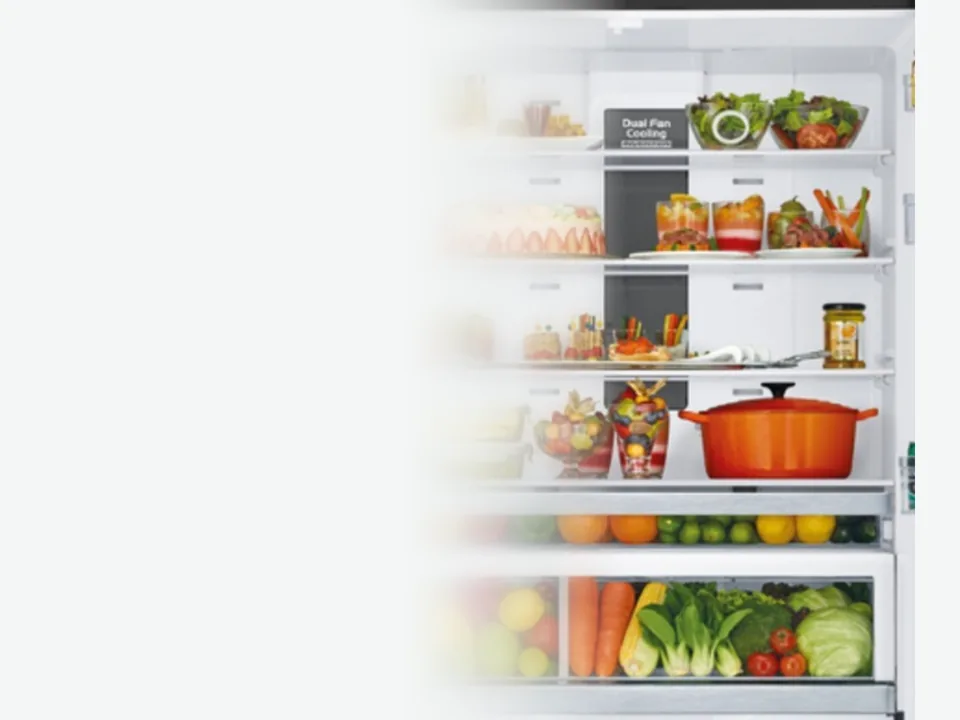
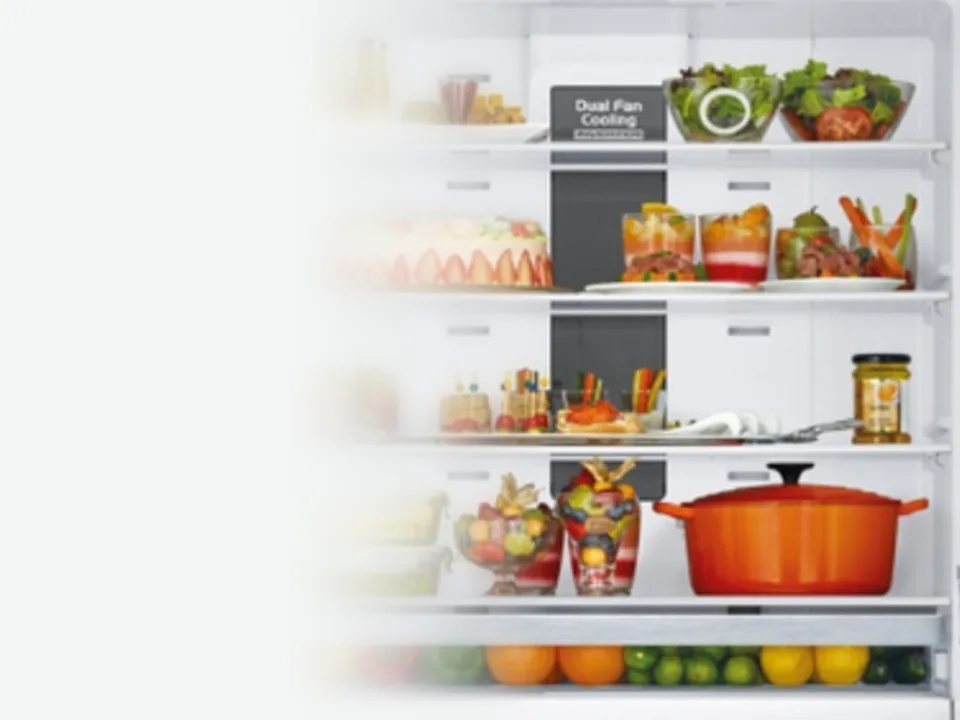
Home 'What to cook': closer fridge crop, larger photo area
Claude-Session: https://claude.ai/code/session_0114hPSsD2r6iCyAatioyGfp

diff --git a/th/index.html b/th/index.html
@@ -90,10 +90,10 @@
 -webkit-mask-image:linear-gradient(to left,#000 15%,rgba(0,0,0,.55) 45%,transparent 92%);mask-image:linear-gradient(to left,#000 15%,rgba(0,0,0,.55) 45%,transparent 92%);z-index:-1;pointer-events:none}
 .b-app.ph::after{opacity:.75;width:60%}.b-plan.ph::after{opacity:.35;width:45%}
 .b-app img.ph,.b-dish.ph .mos{display:none}.b-app .more{display:block;margin:12px 0 0}.b-app .txt{max-width:62%}
-.b-cook.ph::after{opacity:.75;width:55%}
+.b-cook.ph::after{opacity:.8;width:66%}
 @media(max-width:820px){.b-app .txt{max-width:100%}}
 @media(max-width:520px){.bt{min-height:180px}.b-calc,.b-food,.b-diet,.b-allg{min-height:160px}
-.bt.ph::after{width:68%;opacity:.42}.b-app.ph::after{opacity:.7;width:70%}.b-cook.ph::after{opacity:.6;width:62%}.b-cook form{flex-direction:column}}
+.bt.ph::after{width:68%;opacity:.42}.b-app.ph::after{opacity:.7;width:70%}.b-cook.ph::after{opacity:.6;width:75%}.b-cook form{flex-direction:column}}
 </style>
 <script type="application/ld+json">[{"@context": "https://schema.org", "@type": "WebSite", "name": "Me Nutrition", "url": "https://menutrition.app/", "inLanguage": "th", "description": "เครื่องมือโภชนาการฟรี: แคลอรี่และสารอาหารหลักของอาหาร 2,300+ เมนูและวัตถุดิบ 9,500+ รายการ ทำอะไรจากของในตู้เย็น ไดเอท ภูมิแพ้ เครื่องคำนวณ แผนลดน้ำหนัก"}, {"@context": "https://schema.org", "@type": "Organization", "name": "Me Nutrition", "url": "https://menutrition.app/", "logo": "https://menutrition.app/appicon.png", "sameAs": ["https://apps.apple.com/app/id6767123368"]}]</script>
 </head>

diff --git a/hi/index.html b/hi/index.html
@@ -90,10 +90,10 @@
 -webkit-mask-image:linear-gradient(to left,#000 15%,rgba(0,0,0,.55) 45%,transparent 92%);mask-image:linear-gradient(to left,#000 15%,rgba(0,0,0,.55) 45%,transparent 92%);z-index:-1;pointer-events:none}
 .b-app.ph::after{opacity:.75;width:60%}.b-plan.ph::after{opacity:.35;width:45%}
 .b-app img.ph,.b-dish.ph .mos{display:none}.b-app .more{display:block;margin:12px 0 0}.b-app .txt{max-width:62%}
-.b-cook.ph::after{opacity:.75;width:55%}
+.b-cook.ph::after{opacity:.8;width:66%}
 @media(max-width:820px){.b-app .txt{max-width:100%}}
 @media(max-width:520px){.bt{min-height:180px}.b-calc,.b-food,.b-diet,.b-allg{min-height:160px}
-.bt.ph::after{width:68%;opacity:.42}.b-app.ph::after{opacity:.7;width:70%}.b-cook.ph::after{opacity:.6;width:62%}.b-cook form{flex-direction:column}}
+.bt.ph::after{width:68%;opacity:.42}.b-app.ph::after{opacity:.7;width:70%}.b-cook.ph::after{opacity:.6;width:75%}.b-cook form{flex-direction:column}}
 </style>
 <script type="application/ld+json">[{"@context": "https://schema.org", "@type": "WebSite", "name": "Me Nutrition", "url": "https://menutrition.app/", "inLanguage": "hi", "description": "मुफ़्त पोषण टूल: 2,300+ व्यंजनों और 9,500+ खाद्य पदार्थों की कैलोरी व मैक्रो, फ्रिज से क्या बनाएं, डाइट, एलर्जी, कैलकुलेटर और वज़न घटाने का प्लान।"}, {"@context": "https://schema.org", "@type": "Organization", "name": "Me Nutrition", "url": "https://menutrition.app/", "logo": "https://menutrition.app/appicon.png", "sameAs": ["https://apps.apple.com/app/id6767123368"]}]</script>
 </head>

diff --git a/ru/index.html b/ru/index.html
@@ -90,10 +90,10 @@
 -webkit-mask-image:linear-gradient(to left,#000 15%,rgba(0,0,0,.55) 45%,transparent 92%);mask-image:linear-gradient(to left,#000 15%,rgba(0,0,0,.55) 45%,transparent 92%);z-index:-1;pointer-events:none}
 .b-app.ph::after{opacity:.75;width:60%}.b-plan.ph::after{opacity:.35;width:45%}
 .b-app img.ph,.b-dish.ph .mos{display:none}.b-app .more{display:block;margin:12px 0 0}.b-app .txt{max-width:62%}
-.b-cook.ph::after{opacity:.75;width:55%}
+.b-cook.ph::after{opacity:.8;width:66%}
 @media(max-width:820px){.b-app .txt{max-width:100%}}
 @media(max-width:520px){.bt{min-height:180px}.b-calc,.b-food,.b-diet,.b-allg{min-height:160px}
-.bt.ph::after{width:68%;opacity:.42}.b-app.ph::after{opacity:.7;width:70%}.b-cook.ph::after{opacity:.6;width:62%}.b-cook form{flex-direction:column}}
+.bt.ph::after{width:68%;opacity:.42}.b-app.ph::after{opacity:.7;width:70%}.b-cook.ph::after{opacity:.6;width:75%}.b-cook form{flex-direction:column}}
 </style>
 <script type="application/ld+json">[{"@context": "https://schema.org", "@type": "WebSite", "name": "Me Nutrition", "url": "https://menutrition.app/", "inLanguage": "ru", "description": "Бесплатные инструменты о питании: калории и БЖУ 2 300+ блюд мира и 9 500+ продуктов, что приготовить из холодильника, диеты, аллергии, калькуляторы и план похудения."}, {"@context": "https://schema.org", "@type": "Organization", "name": "Me Nutrition", "url": "https://menutrition.app/", "logo": "https://menutrition.app/appicon.png", "sameAs": ["https://apps.apple.com/app/id6767123368"]}]</script>
 </head>

diff --git a/el/index.html b/el/index.html
@@ -90,10 +90,10 @@
 -webkit-mask-image:linear-gradient(to left,#000 15%,rgba(0,0,0,.55) 45%,transparent 92%);mask-image:linear-gradient(to left,#000 15%,rgba(0,0,0,.55) 45%,transparent 92%);z-index:-1;pointer-events:none}
 .b-app.ph::after{opacity:.75;width:60%}.b-plan.ph::after{opacity:.35;width:45%}
 .b-app img.ph,.b-dish.ph .mos{display:none}.b-app .more{display:block;margin:12px 0 0}.b-app .txt{max-width:62%}
-.b-cook.ph::after{opacity:.75;width:55%}
+.b-cook.ph::after{opacity:.8;width:66%}
 @media(max-width:820px){.b-app .txt{max-width:100%}}
 @media(max-width:520px){.bt{min-height:180px}.b-calc,.b-food,.b-diet,.b-allg{min-height:160px}
-.bt.ph::after{width:68%;opacity:.42}.b-app.ph::after{opacity:.7;width:70%}.b-cook.ph::after{opacity:.6;width:62%}.b-cook form{flex-direction:column}}
+.bt.ph::after{width:68%;opacity:.42}.b-app.ph::after{opacity:.7;width:70%}.b-cook.ph::after{opacity:.6;width:75%}.b-cook form{flex-direction:column}}
 </style>
 <script type="application/ld+json">[{"@context": "https://schema.org", "@type": "WebSite", "name": "Me Nutrition", "url": "https://menutrition.app/", "inLanguage": "el", "description": "Δωρεάν εργαλεία διατροφής: θερμίδες και μακροθρεπτικά για 2.300+ πιάτα και 9.500+ τρόφιμα, τι να μαγειρέψετε, δίαιτες, αλλεργίες, υπολογιστές, πλάνο βάρους."}, {"@context": "https://schema.org", "@type": "Organization", "name": "Me Nutrition", "url": "https://menutrition.app/", "logo": "https://menutrition.app/appicon.png", "sameAs": ["https://apps.apple.com/app/id6767123368"]}]</script>
 </head>

diff --git a/uk/index.html b/uk/index.html
@@ -90,10 +90,10 @@
 -webkit-mask-image:linear-gradient(to left,#000 15%,rgba(0,0,0,.55) 45%,transparent 92%);mask-image:linear-gradient(to left,#000 15%,rgba(0,0,0,.55) 45%,transparent 92%);z-index:-1;pointer-events:none}
 .b-app.ph::after{opacity:.75;width:60%}.b-plan.ph::after{opacity:.35;width:45%}
 .b-app img.ph,.b-dish.ph .mos{display:none}.b-app .more{display:block;margin:12px 0 0}.b-app .txt{max-width:62%}
-.b-cook.ph::after{opacity:.75;width:55%}
+.b-cook.ph::after{opacity:.8;width:66%}
 @media(max-width:820px){.b-app .txt{max-width:100%}}
 @media(max-width:520px){.bt{min-height:180px}.b-calc,.b-food,.b-diet,.b-allg{min-height:160px}
-.bt.ph::after{width:68%;opacity:.42}.b-app.ph::after{opacity:.7;width:70%}.b-cook.ph::after{opacity:.6;width:62%}.b-cook form{flex-direction:column}}
+.bt.ph::after{width:68%;opacity:.42}.b-app.ph::after{opacity:.7;width:70%}.b-cook.ph::after{opacity:.6;width:75%}.b-cook form{flex-direction:column}}
 </style>
 <script type="application/ld+json">[{"@context": "https://schema.org", "@type": "WebSite", "name": "Me Nutrition", "url": "https://menutrition.app/", "inLanguage": "uk", "description": "Безкоштовні інструменти: калорії та БЖВ 2300+ страв світу і 9500+ продуктів, що приготувати з холодильника, дієти, алергії, калькулятори та план схуднення."}, {"@context": "https://schema.org", "@type": "Organization", "name": "Me Nutrition", "url": "https://menutrition.app/", "logo": "https://menutrition.app/appicon.png", "sameAs": ["https://apps.apple.com/app/id6767123368"]}]</script>
 </head>

diff --git a/ar/index.html b/ar/index.html
@@ -90,10 +90,10 @@
 -webkit-mask-image:linear-gradient(to left,#000 15%,rgba(0,0,0,.55) 45%,transparent 92%);mask-image:linear-gradient(to left,#000 15%,rgba(0,0,0,.55) 45%,transparent 92%);z-index:-1;pointer-events:none}
 .b-app.ph::after{opacity:.75;width:60%}.b-plan.ph::after{opacity:.35;width:45%}
 .b-app img.ph,.b-dish.ph .mos{display:none}.b-app .more{display:block;margin:12px 0 0}.b-app .txt{max-width:62%}
-.b-cook.ph::after{opacity:.75;width:55%}
+.b-cook.ph::after{opacity:.8;width:66%}
 @media(max-width:820px){.b-app .txt{max-width:100%}}
 @media(max-width:520px){.bt{min-height:180px}.b-calc,.b-food,.b-diet,.b-allg{min-height:160px}
-.bt.ph::after{width:68%;opacity:.42}.b-app.ph::after{opacity:.7;width:70%}.b-cook.ph::after{opacity:.6;width:62%}.b-cook form{flex-direction:column}}
+.bt.ph::after{width:68%;opacity:.42}.b-app.ph::after{opacity:.7;width:70%}.b-cook.ph::after{opacity:.6;width:75%}.b-cook form{flex-direction:column}}
 </style>
 <script type="application/ld+json">[{"@context": "https://schema.org", "@type": "WebSite", "name": "Me Nutrition", "url": "https://menutrition.app/", "inLanguage": "ar", "description": "أدوات تغذية مجانية: سعرات ومغذيات كبرى لأكثر من 2300 طبق و9500 غذاء، ماذا تطبخ مما في ثلاجتك، أنظمة غذائية، حساسية، حاسبات وخطة لإنقاص الوزن."}, {"@context": "https://schema.org", "@type": "Organization", "name": "Me Nutrition", "url": "https://menutrition.app/", "logo": "https://menutrition.app/appicon.png", "sameAs": ["https://apps.apple.com/app/id6767123368"]}]</script>
 </head>

diff --git a/he/index.html b/he/index.html
@@ -90,10 +90,10 @@
 -webkit-mask-image:linear-gradient(to left,#000 15%,rgba(0,0,0,.55) 45%,transparent 92%);mask-image:linear-gradient(to left,#000 15%,rgba(0,0,0,.55) 45%,transparent 92%);z-index:-1;pointer-events:none}
 .b-app.ph::after{opacity:.75;width:60%}.b-plan.ph::after{opacity:.35;width:45%}
 .b-app img.ph,.b-dish.ph .mos{display:none}.b-app .more{display:block;margin:12px 0 0}.b-app .txt{max-width:62%}
-.b-cook.ph::after{opacity:.75;width:55%}
+.b-cook.ph::after{opacity:.8;width:66%}
 @media(max-width:820px){.b-app .txt{max-width:100%}}
 @media(max-width:520px){.bt{min-height:180px}.b-calc,.b-food,.b-diet,.b-allg{min-height:160px}
-.bt.ph::after{width:68%;opacity:.42}.b-app.ph::after{opacity:.7;width:70%}.b-cook.ph::after{opacity:.6;width:62%}.b-cook form{flex-direction:column}}
+.bt.ph::after{width:68%;opacity:.42}.b-app.ph::after{opacity:.7;width:70%}.b-cook.ph::after{opacity:.6;width:75%}.b-cook form{flex-direction:column}}
 </style>
 <script type="application/ld+json">[{"@context": "https://schema.org", "@type": "WebSite", "name": "Me Nutrition", "url": "https://menutrition.app/", "inLanguage": "he", "description": "כלי תזונה חינמיים: קלוריות ומאקרו ל-2,300+ מנות מהעולם ו-9,500+ מזונות, מה לבשל ממה שבמקרר, דיאטות, אלרגיות, מחשבונים ותוכנית לירידה במשקל."}, {"@context": "https://schema.org", "@type": "Organization", "name": "Me Nutrition", "url": "https://menutrition.app/", "logo": "https://menutrition.app/appicon.png", "sameAs": ["https://apps.apple.com/app/id6767123368"]}]</script>
 </head>

diff --git a/vi/index.html b/vi/index.html
@@ -90,10 +90,10 @@
 -webkit-mask-image:linear-gradient(to left,#000 15%,rgba(0,0,0,.55) 45%,transparent 92%);mask-image:linear-gradient(to left,#000 15%,rgba(0,0,0,.55) 45%,transparent 92%);z-index:-1;pointer-events:none}
 .b-app.ph::after{opacity:.75;width:60%}.b-plan.ph::after{opacity:.35;width:45%}
 .b-app img.ph,.b-dish.ph .mos{display:none}.b-app .more{display:block;margin:12px 0 0}.b-app .txt{max-width:62%}
-.b-cook.ph::after{opacity:.75;width:55%}
+.b-cook.ph::after{opacity:.8;width:66%}
 @media(max-width:820px){.b-app .txt{max-width:100%}}
 @media(max-width:520px){.bt{min-height:180px}.b-calc,.b-food,.b-diet,.b-allg{min-height:160px}
-.bt.ph::after{width:68%;opacity:.42}.b-app.ph::after{opacity:.7;width:70%}.b-cook.ph::after{opacity:.6;width:62%}.b-cook form{flex-direction:column}}
+.bt.ph::after{width:68%;opacity:.42}.b-app.ph::after{opacity:.7;width:70%}.b-cook.ph::after{opacity:.6;width:75%}.b-cook form{flex-direction:column}}
 </style>
 <script type="application/ld+json">[{"@context": "https://schema.org", "@type": "WebSite", "name": "Me Nutrition", "url": "https://menutrition.app/", "inLanguage": "vi", "description": "Công cụ dinh dưỡng miễn phí: calo và macro của 2.300+ món ăn thế giới và 9.500+ thực phẩm, nấu gì từ tủ lạnh, chế độ ăn, dị ứng, máy tính và kế hoạch giảm cân."}, {"@context": "https://schema.org", "@type": "Organization", "name": "Me Nutrition", "url": "https://menutrition.app/", "logo": "https://menutrition.app/appicon.png", "sameAs": ["https://apps.apple.com/app/id6767123368"]}]</script>
 </head>

diff --git a/ja/index.html b/ja/index.html
@@ -90,10 +90,10 @@
 -webkit-mask-image:linear-gradient(to left,#000 15%,rgba(0,0,0,.55) 45%,transparent 92%);mask-image:linear-gradient(to left,#000 15%,rgba(0,0,0,.55) 45%,transparent 92%);z-index:-1;pointer-events:none}
 .b-app.ph::after{opacity:.75;width:60%}.b-plan.ph::after{opacity:.35;width:45%}
 .b-app img.ph,.b-dish.ph .mos{display:none}.b-app .more{display:block;margin:12px 0 0}.b-app .txt{max-width:62%}
-.b-cook.ph::after{opacity:.75;width:55%}
+.b-cook.ph::after{opacity:.8;width:66%}
 @media(max-width:820px){.b-app .txt{max-width:100%}}
 @media(max-width:520px){.bt{min-height:180px}.b-calc,.b-food,.b-diet,.b-allg{min-height:160px}
-.bt.ph::after{width:68%;opacity:.42}.b-app.ph::after{opacity:.7;width:70%}.b-cook.ph::after{opacity:.6;width:62%}.b-cook form{flex-direction:column}}
+.bt.ph::after{width:68%;opacity:.42}.b-app.ph::after{opacity:.7;width:70%}.b-cook.ph::after{opacity:.6;width:75%}.b-cook form{flex-direction:column}}
 </style>
 <script type="application/ld+json">[{"@context": "https://schema.org", "@type": "WebSite", "name": "Me Nutrition", "url": "https://menutrition.app/", "inLanguage": "ja", "description": "無料の栄養ツール：世界の料理2,300品以上と食品9,500品以上のカロリーとPFC、冷蔵庫の食材で作れる料理、食事法、アレルギー、計算ツール、減量プラン。"}, {"@context": "https://schema.org", "@type": "Organization", "name": "Me Nutrition", "url": "https://menutrition.app/", "logo": "https://menutrition.app/appicon.png", "sameAs": ["https://apps.apple.com/app/id6767123368"]}]</script>
 </head>

diff --git a/ko/index.html b/ko/index.html
@@ -90,10 +90,10 @@
 -webkit-mask-image:linear-gradient(to left,#000 15%,rgba(0,0,0,.55) 45%,transparent 92%);mask-image:linear-gradient(to left,#000 15%,rgba(0,0,0,.55) 45%,transparent 92%);z-index:-1;pointer-events:none}
 .b-app.ph::after{opacity:.75;width:60%}.b-plan.ph::after{opacity:.35;width:45%}
 .b-app img.ph,.b-dish.ph .mos{display:none}.b-app .more{display:block;margin:12px 0 0}.b-app .txt{max-width:62%}
-.b-cook.ph::after{opacity:.75;width:55%}
+.b-cook.ph::after{opacity:.8;width:66%}
 @media(max-width:820px){.b-app .txt{max-width:100%}}
 @media(max-width:520px){.bt{min-height:180px}.b-calc,.b-food,.b-diet,.b-allg{min-height:160px}
-.bt.ph::after{width:68%;opacity:.42}.b-app.ph::after{opacity:.7;width:70%}.b-cook.ph::after{opacity:.6;width:62%}.b-cook form{flex-direction:column}}
+.bt.ph::after{width:68%;opacity:.42}.b-app.ph::after{opacity:.7;width:70%}.b-cook.ph::after{opacity:.6;width:75%}.b-cook form{flex-direction:column}}
 </style>
 <script type="application/ld+json">[{"@context": "https://schema.org", "@type": "WebSite", "name": "Me Nutrition", "url": "https://menutrition.app/", "inLanguage": "ko", "description": "무료 영양 도구: 세계 요리 2,300개 이상과 식품 9,500개 이상의 칼로리·탄단지, 냉장고 재료로 만들 요리, 식단, 알레르기, 계산기, 체중 감량 플랜."}, {"@context": "https://schema.org", "@type": "Organization", "name": "Me Nutrition", "url": "https://menutrition.app/", "logo": "https://menutrition.app/appicon.png", "sameAs": ["https://apps.apple.com/app/id6767123368"]}]</script>
 </head>

diff --git a/tr/index.html b/tr/index.html
@@ -90,10 +90,10 @@
 -webkit-mask-image:linear-gradient(to left,#000 15%,rgba(0,0,0,.55) 45%,transparent 92%);mask-image:linear-gradient(to left,#000 15%,rgba(0,0,0,.55) 45%,transparent 92%);z-index:-1;pointer-events:none}
 .b-app.ph::after{opacity:.75;width:60%}.b-plan.ph::after{opacity:.35;width:45%}
 .b-app img.ph,.b-dish.ph .mos{display:none}.b-app .more{display:block;margin:12px 0 0}.b-app .txt{max-width:62%}
-.b-cook.ph::after{opacity:.75;width:55%}
+.b-cook.ph::after{opacity:.8;width:66%}
 @media(max-width:820px){.b-app .txt{max-width:100%}}
 @media(max-width:520px){.bt{min-height:180px}.b-calc,.b-food,.b-diet,.b-allg{min-height:160px}
-.bt.ph::after{width:68%;opacity:.42}.b-app.ph::after{opacity:.7;width:70%}.b-cook.ph::after{opacity:.6;width:62%}.b-cook form{flex-direction:column}}
+.bt.ph::after{width:68%;opacity:.42}.b-app.ph::after{opacity:.7;width:70%}.b-cook.ph::after{opacity:.6;width:75%}.b-cook form{flex-direction:column}}
 </style>
 <script type="application/ld+json">[{"@context": "https://schema.org", "@type": "WebSite", "name": "Me Nutrition", "url": "https://menutrition.app/", "inLanguage": "tr", "description": "Ücretsiz beslenme araçları: 2.300+ yemek ve 9.500+ besinin kalori ve makroları, buzdolabıyla ne pişirilir, diyetler, alerjiler, hesaplayıcılar, zayıflama planı."}, {"@context": "https://schema.org", "@type": "Organization", "name": "Me Nutrition", "url": "https://menutrition.app/", "logo": "https://menutrition.app/appicon.png", "sameAs": ["https://apps.apple.com/app/id6767123368"]}]</script>
 </head>

diff --git a/index.html b/index.html
@@ -90,10 +90,10 @@
 -webkit-mask-image:linear-gradient(to left,#000 15%,rgba(0,0,0,.55) 45%,transparent 92%);mask-image:linear-gradient(to left,#000 15%,rgba(0,0,0,.55) 45%,transparent 92%);z-index:-1;pointer-events:none}
 .b-app.ph::after{opacity:.75;width:60%}.b-plan.ph::after{opacity:.35;width:45%}
 .b-app img.ph,.b-dish.ph .mos{display:none}.b-app .more{display:block;margin:12px 0 0}.b-app .txt{max-width:62%}
-.b-cook.ph::after{opacity:.75;width:55%}
+.b-cook.ph::after{opacity:.8;width:66%}
 @media(max-width:820px){.b-app .txt{max-width:100%}}
 @media(max-width:520px){.bt{min-height:180px}.b-calc,.b-food,.b-diet,.b-allg{min-height:160px}
-.bt.ph::after{width:68%;opacity:.42}.b-app.ph::after{opacity:.7;width:70%}.b-cook.ph::after{opacity:.6;width:62%}.b-cook form{flex-direction:column}}
+.bt.ph::after{width:68%;opacity:.42}.b-app.ph::after{opacity:.7;width:70%}.b-cook.ph::after{opacity:.6;width:75%}.b-cook form{flex-direction:column}}
 </style>
 <script type="application/ld+json">[{"@context": "https://schema.org", "@type": "WebSite", "name": "Me Nutrition", "url": "https://menutrition.app/", "inLanguage": "en", "description": "Free nutrition tools: calories and macros for 2,300+ world dishes and 9,500+ foods, what to cook from your fridge, diets, allergies, calculators and a weight-loss plan."}, {"@context": "https://schema.org", "@type": "Organization", "name": "Me Nutrition", "url": "https://menutrition.app/", "logo": "https://menutrition.app/appicon.png", "sameAs": ["https://apps.apple.com/app/id6767123368"]}]</script>
 </head>
